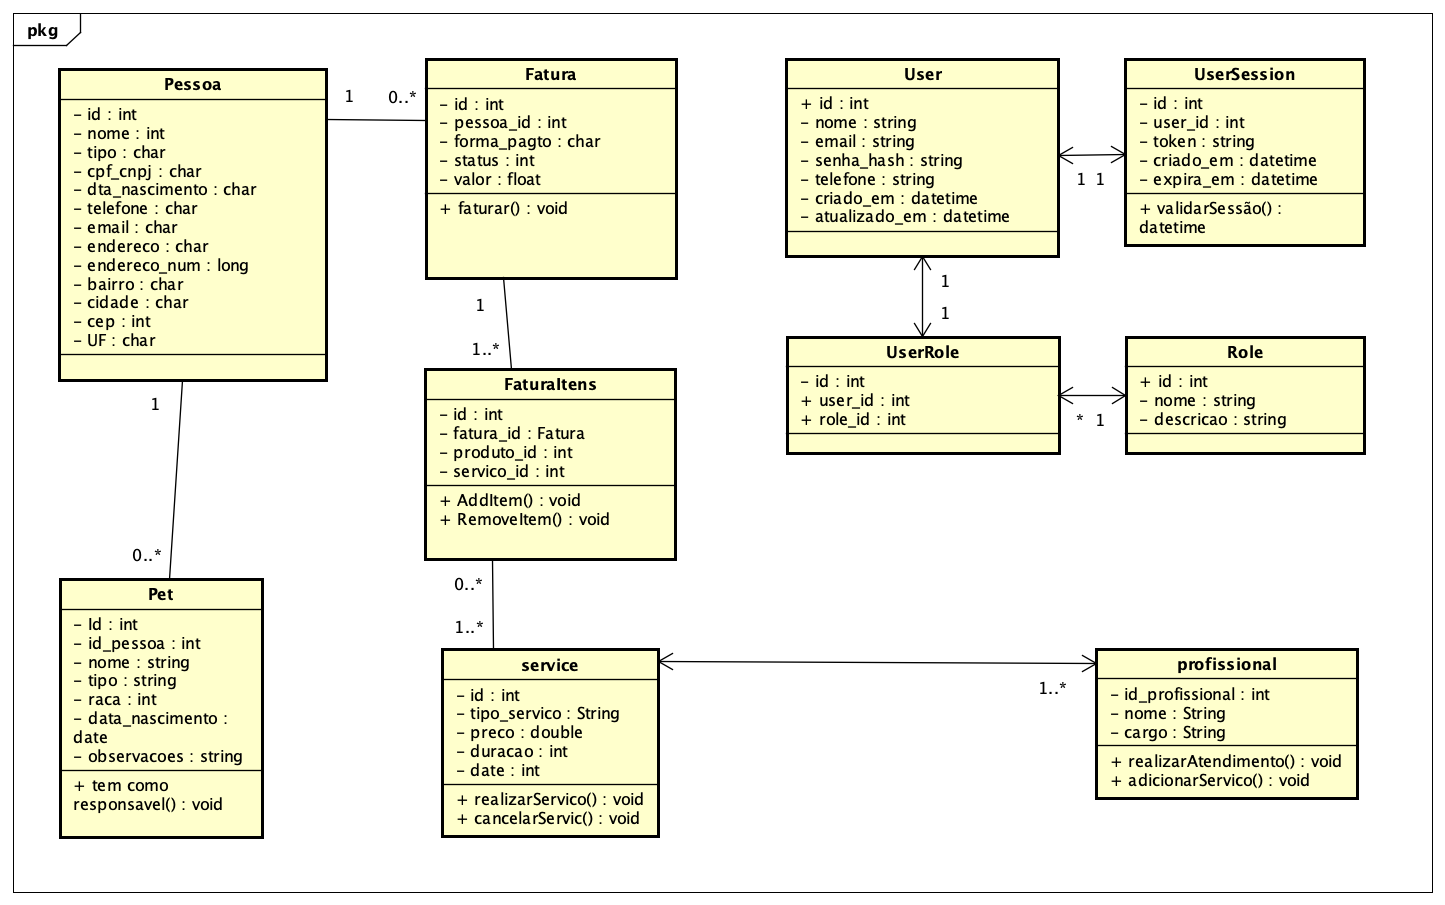
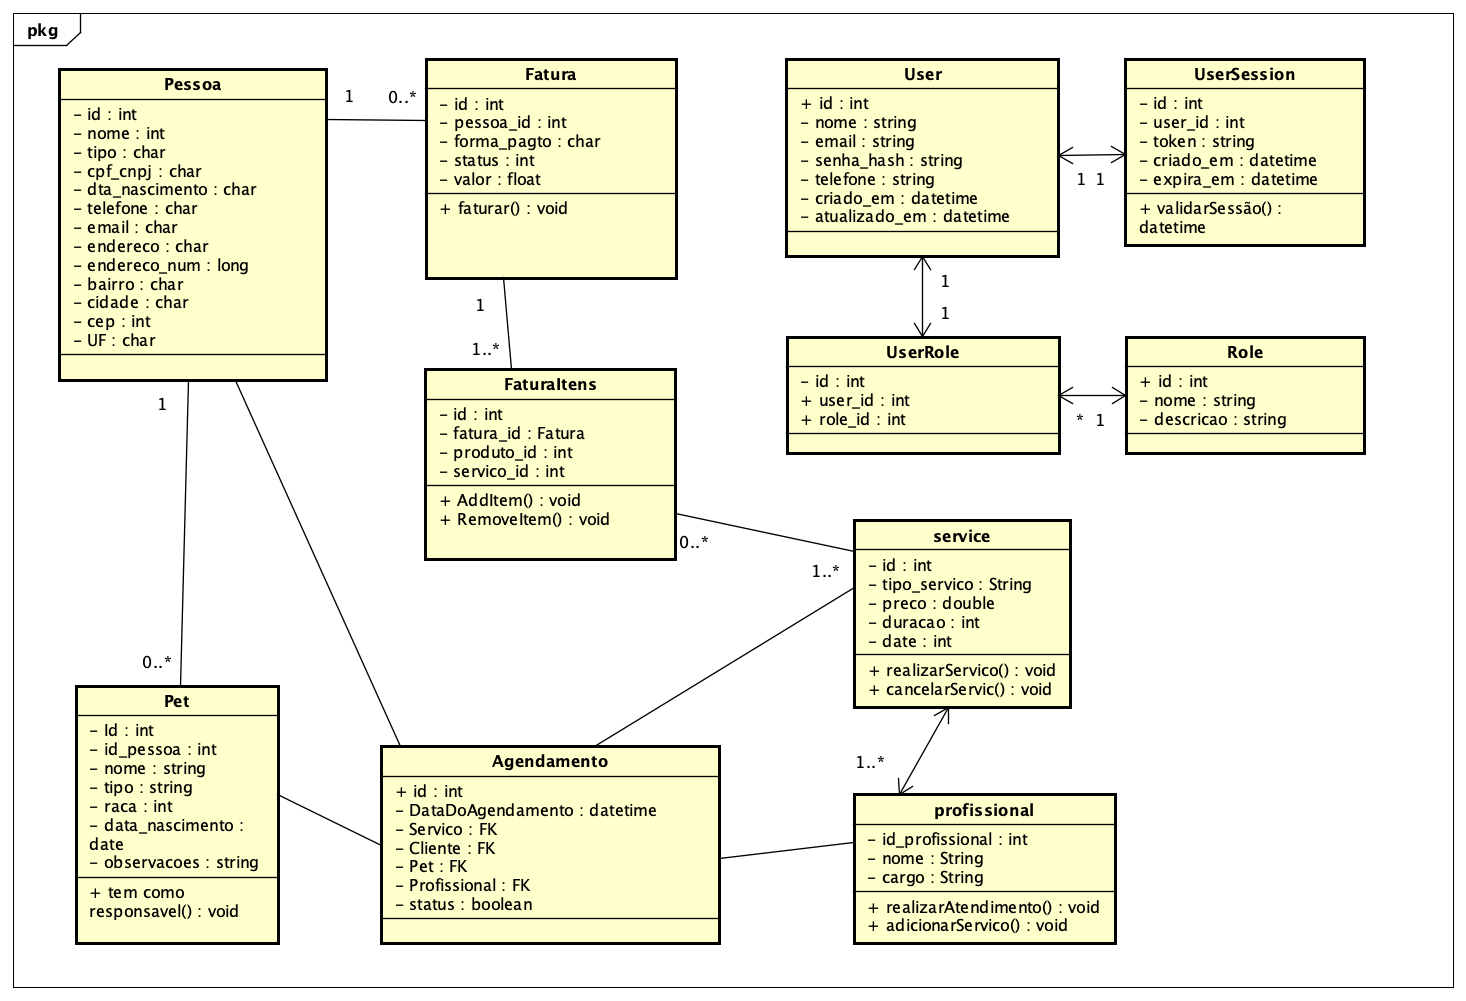
Atualizar modelagem em backend-apis.md

diff --git a/docs/backend-apis.md b/docs/backend-apis.md
@@ -20,9 +20,15 @@ Essa API visa atender de maneira eficaz e acessível às necessidades operaciona
 
 ## Modelagem da Aplicação
 
-[Descreva a modelagem da aplicação, incluindo a estrutura de dados, diagramas de classes ou entidades, e outras representações visuais relevantes.]
+A estrutura de dados principal se constitui das entidades, requisito funcional:
 
-### Modelagem de Aplicação - Cadastro de Usuários e Autenticação
+- Pessoa, RF-002;
+- Fatura, RF-008;
+- Pet, RF-001;
+- User, RF-005;
+- Profissional, RF-006;
+- Service, RF-004;
+
 
 ## Diagrama de Classes
 
